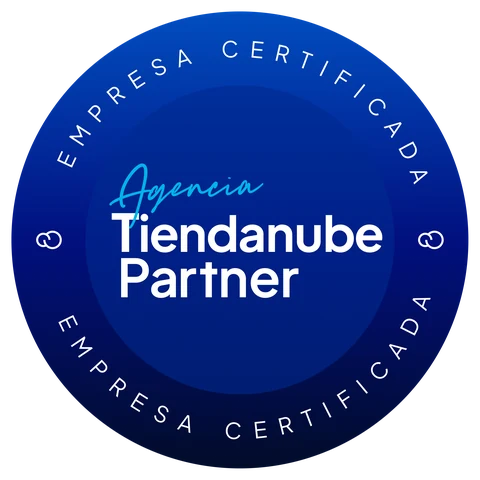
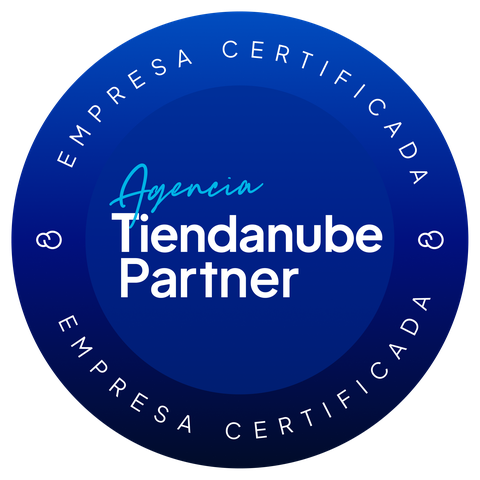
feat(partner): badge en footer sitewide + leyenda enriquecida + sello lossless
Cumple las reglas oficiales de uso del logo de Partner (correo Tiendanube):
- Sello en footer (ES+EN) → sección visible y comprobable en todo el sitio
- Leyenda 'Agencia Tiendanube Partner certificada' (frase oficial avalada) +
  contexto SEO 'Montamos tu tienda en línea en México' en home y service pages
- Sello regenerado en WebP lossless (sin pérdida → airtight con 'sin cambios de color')
- i18n footer-partner-text ES+EN; bump cache-buster home.js

diff --git a/js/home.js b/js/home.js
@@ -476,7 +476,7 @@
           'tiendas-headline': { h: 'Vende<br><em>en línea.</em>' },
           'tiendas-urgency': { t: 'Tu tienda lista para cobrar, no solo para verse bien' },
           'tiendas-trust-text': { h: 'Pago único por el desarrollo.<br>La plataforma y la pasarela las cubre tu negocio.' },
-          'tiendas-partner-caption': { h: 'Agencia <strong style="font-weight:600;color:#fff;">Tiendanube Partner</strong><br>Empresa certificada' },
+          'tiendas-partner-caption': { h: 'Agencia <strong style="font-weight:600;color:#fff;">Tiendanube Partner</strong> certificada<br>Montamos tu tienda en línea en México' },
           'tienda-esencial-name': { t: 'Tienda Esencial' },
           'tienda-esencial-delivery': { t: 'pago único · marcas que empiezan' },
           'tienda-esencial-features': { h: '<li>Tienda en TiendaNube con template configurado a tu marca</li><li>Administras tu catálogo desde un panel simple — productos, precios y stock, cuando quieras</li><li>Pasarela de pago + envíos configurados</li><li>Conexión a Instagram + botón de WhatsApp</li><li>Dominio incluido (primer año)</li>' },
@@ -502,6 +502,7 @@
           'agenda-link': { t: 'O agenda una llamada →' },
           /* ── FOOTER */
           'footer-tagline': { t: 'Diseñamos el futuro digital de tu negocio.' },
+          'footer-partner-text': { h: 'Agencia <strong style="font-weight:600;color:#fff;">Tiendanube Partner</strong> certificada' },
           'fcol-nav-title': { t: 'Navegación' },
           'fcol-srv-title': { t: 'Servicios' },
           'fcol-contact-title': { t: 'Contacto' },
@@ -637,7 +638,7 @@
           'tiendas-headline': { h: 'Sell<br><em>online.</em>' },
           'tiendas-urgency': { t: 'A store built to sell, not just to look good' },
           'tiendas-trust-text': { h: 'One-time payment for the build.<br>The platform and payment gateway are covered by your business.' },
-          'tiendas-partner-caption': { h: 'Certified <strong style="font-weight:600;color:#fff;">Tiendanube Partner</strong><br>Agency' },
+          'tiendas-partner-caption': { h: 'Certified <strong style="font-weight:600;color:#fff;">Tiendanube Partner</strong> Agency<br>We build your online store in Mexico' },
           'tienda-esencial-name': { t: 'Store Essential' },
           'tienda-esencial-delivery': { t: 'one-time payment · brands just starting out' },
           'tienda-esencial-features': { h: '<li>TiendaNube store with a template configured to your brand</li><li>Manage your catalog from a simple panel — products, prices and stock, anytime</li><li>Payment gateway + shipping configured</li><li>Instagram connection + WhatsApp button</li><li>Domain included (first year)</li>' },
@@ -663,6 +664,7 @@
           'agenda-link': { t: 'Or schedule a call →' },
           /* ── FOOTER */
           'footer-tagline': { t: 'We design the digital future of your business.' },
+          'footer-partner-text': { h: 'Certified <strong style="font-weight:600;color:#fff;">Tiendanube Partner</strong> Agency' },
           'fcol-nav-title': { t: 'Navigation' },
           'fcol-srv-title': { t: 'Services' },
           'fcol-contact-title': { t: 'Contact' },

diff --git a/index.html b/index.html
@@ -704,7 +704,7 @@
               <img src="/images/tiendanube-partner.webp" alt="Agencia Tiendanube Partner · Empresa Certificada"
                 width="76" height="76" loading="lazy" decoding="async"
                 style="width:76px;height:76px;flex:none;" />
-              <span id="tiendas-partner-caption" style="font-size:13px;font-weight:300;color:#9a9a9a;line-height:1.55;">Agencia <strong style="font-weight:600;color:#fff;">Tiendanube Partner</strong><br>Empresa certificada</span>
+              <span id="tiendas-partner-caption" style="font-size:13px;font-weight:300;color:#9a9a9a;line-height:1.55;">Agencia <strong style="font-weight:600;color:#fff;">Tiendanube Partner</strong> certificada<br>Montamos tu tienda en línea en México</span>
             </div>
             <p id="tiendas-trust-text">Pago único por el desarrollo.<br>La plataforma y la pasarela las cubre tu negocio.</p>
           </div>
@@ -855,7 +855,7 @@
   <script defer crossorigin src="https://cdnjs.cloudflare.com/ajax/libs/gsap/3.12.5/gsap.min.js"></script>
   <script defer crossorigin src="https://cdnjs.cloudflare.com/ajax/libs/gsap/3.12.5/ScrollTrigger.min.js"></script>
 
-  <script src="/js/home.js?v=20260629c" defer></script>
+  <script src="/js/home.js?v=20260629d" defer></script>
 
   <!-- WhatsApp Float -->
   <a href="https://wa.me/525531007101?text=Hola%2C%20me%20interesa%20tener%20un%20sitio%20web%20profesional%20para%20mi%20negocio.%20%C2%BFPueden%20darme%20m%C3%A1s%20informaci%C3%B3n%3F"

diff --git a/components/footer.html b/components/footer.html
@@ -3,6 +3,11 @@
     <div class="footer-top">
       <div><img src="/images/svg/Cero_Studio_AI.svg" alt="Cero Studio" class="footer-logo-img" width="1434" height="742">
         <p class="footer-tagline" id="footer-tagline">Diseñamos el futuro digital de tu negocio.</p>
+        <div class="footer-partner" style="display:flex;align-items:center;gap:12px;margin-top:24px;">
+          <img src="/images/tiendanube-partner.webp" alt="Agencia Tiendanube Partner certificada"
+            width="56" height="56" loading="lazy" decoding="async" style="width:56px;height:56px;flex:none;">
+          <span id="footer-partner-text" style="font-size:12px;font-weight:300;color:#9a9a9a;line-height:1.5;">Agencia <strong style="font-weight:600;color:#fff;">Tiendanube Partner</strong> certificada</span>
+        </div>
       </div>
       <div>
         <p class="footer-col-title" id="fcol-nav-title">Navegación</p>

diff --git a/components/footer-en.html b/components/footer-en.html
@@ -3,6 +3,11 @@
     <div class="footer-top">
       <div><img src="/images/svg/Cero_Studio_AI.svg" alt="Cero Studio" class="footer-logo-img" width="1434" height="742">
         <p class="footer-tagline" id="footer-tagline">We design the digital future of your business.</p>
+        <div class="footer-partner" style="display:flex;align-items:center;gap:12px;margin-top:24px;">
+          <img src="/images/tiendanube-partner.webp" alt="Certified Tiendanube Partner Agency"
+            width="56" height="56" loading="lazy" decoding="async" style="width:56px;height:56px;flex:none;">
+          <span style="font-size:12px;font-weight:300;color:#9a9a9a;line-height:1.5;">Certified <strong style="font-weight:600;color:#fff;">Tiendanube Partner</strong> Agency</span>
+        </div>
       </div>
       <div>
         <p class="footer-col-title" id="fcol-nav-title">Navigation</p>

diff --git a/servicios/tiendas-ecommerce/index.html b/servicios/tiendas-ecommerce/index.html
@@ -152,7 +152,7 @@
               width="76" height="76" loading="lazy" decoding="async"
               style="width:76px;height:76px;flex:none;" />
             <span style="font-size:13px;font-weight:300;color:#9a9a9a;line-height:1.55;">
-              Agencia <strong style="font-weight:600;color:#fff;">Tiendanube Partner</strong><br>Empresa certificada
+              Agencia <strong style="font-weight:600;color:#fff;">Tiendanube Partner</strong> certificada<br>Montamos tu tienda en línea en México
             </span>
           </div>
         </div>

diff --git a/en/services/online-stores/index.html b/en/services/online-stores/index.html
@@ -153,7 +153,7 @@
               width="76" height="76" loading="lazy" decoding="async"
               style="width:76px;height:76px;flex:none;" />
             <span style="font-size:13px;font-weight:300;color:#9a9a9a;line-height:1.55;">
-              Certified <strong style="font-weight:600;color:#fff;">Tiendanube Partner</strong><br>Agency
+              Certified <strong style="font-weight:600;color:#fff;">Tiendanube Partner</strong> Agency<br>We build your online store in Mexico
             </span>
           </div>
         </div>
